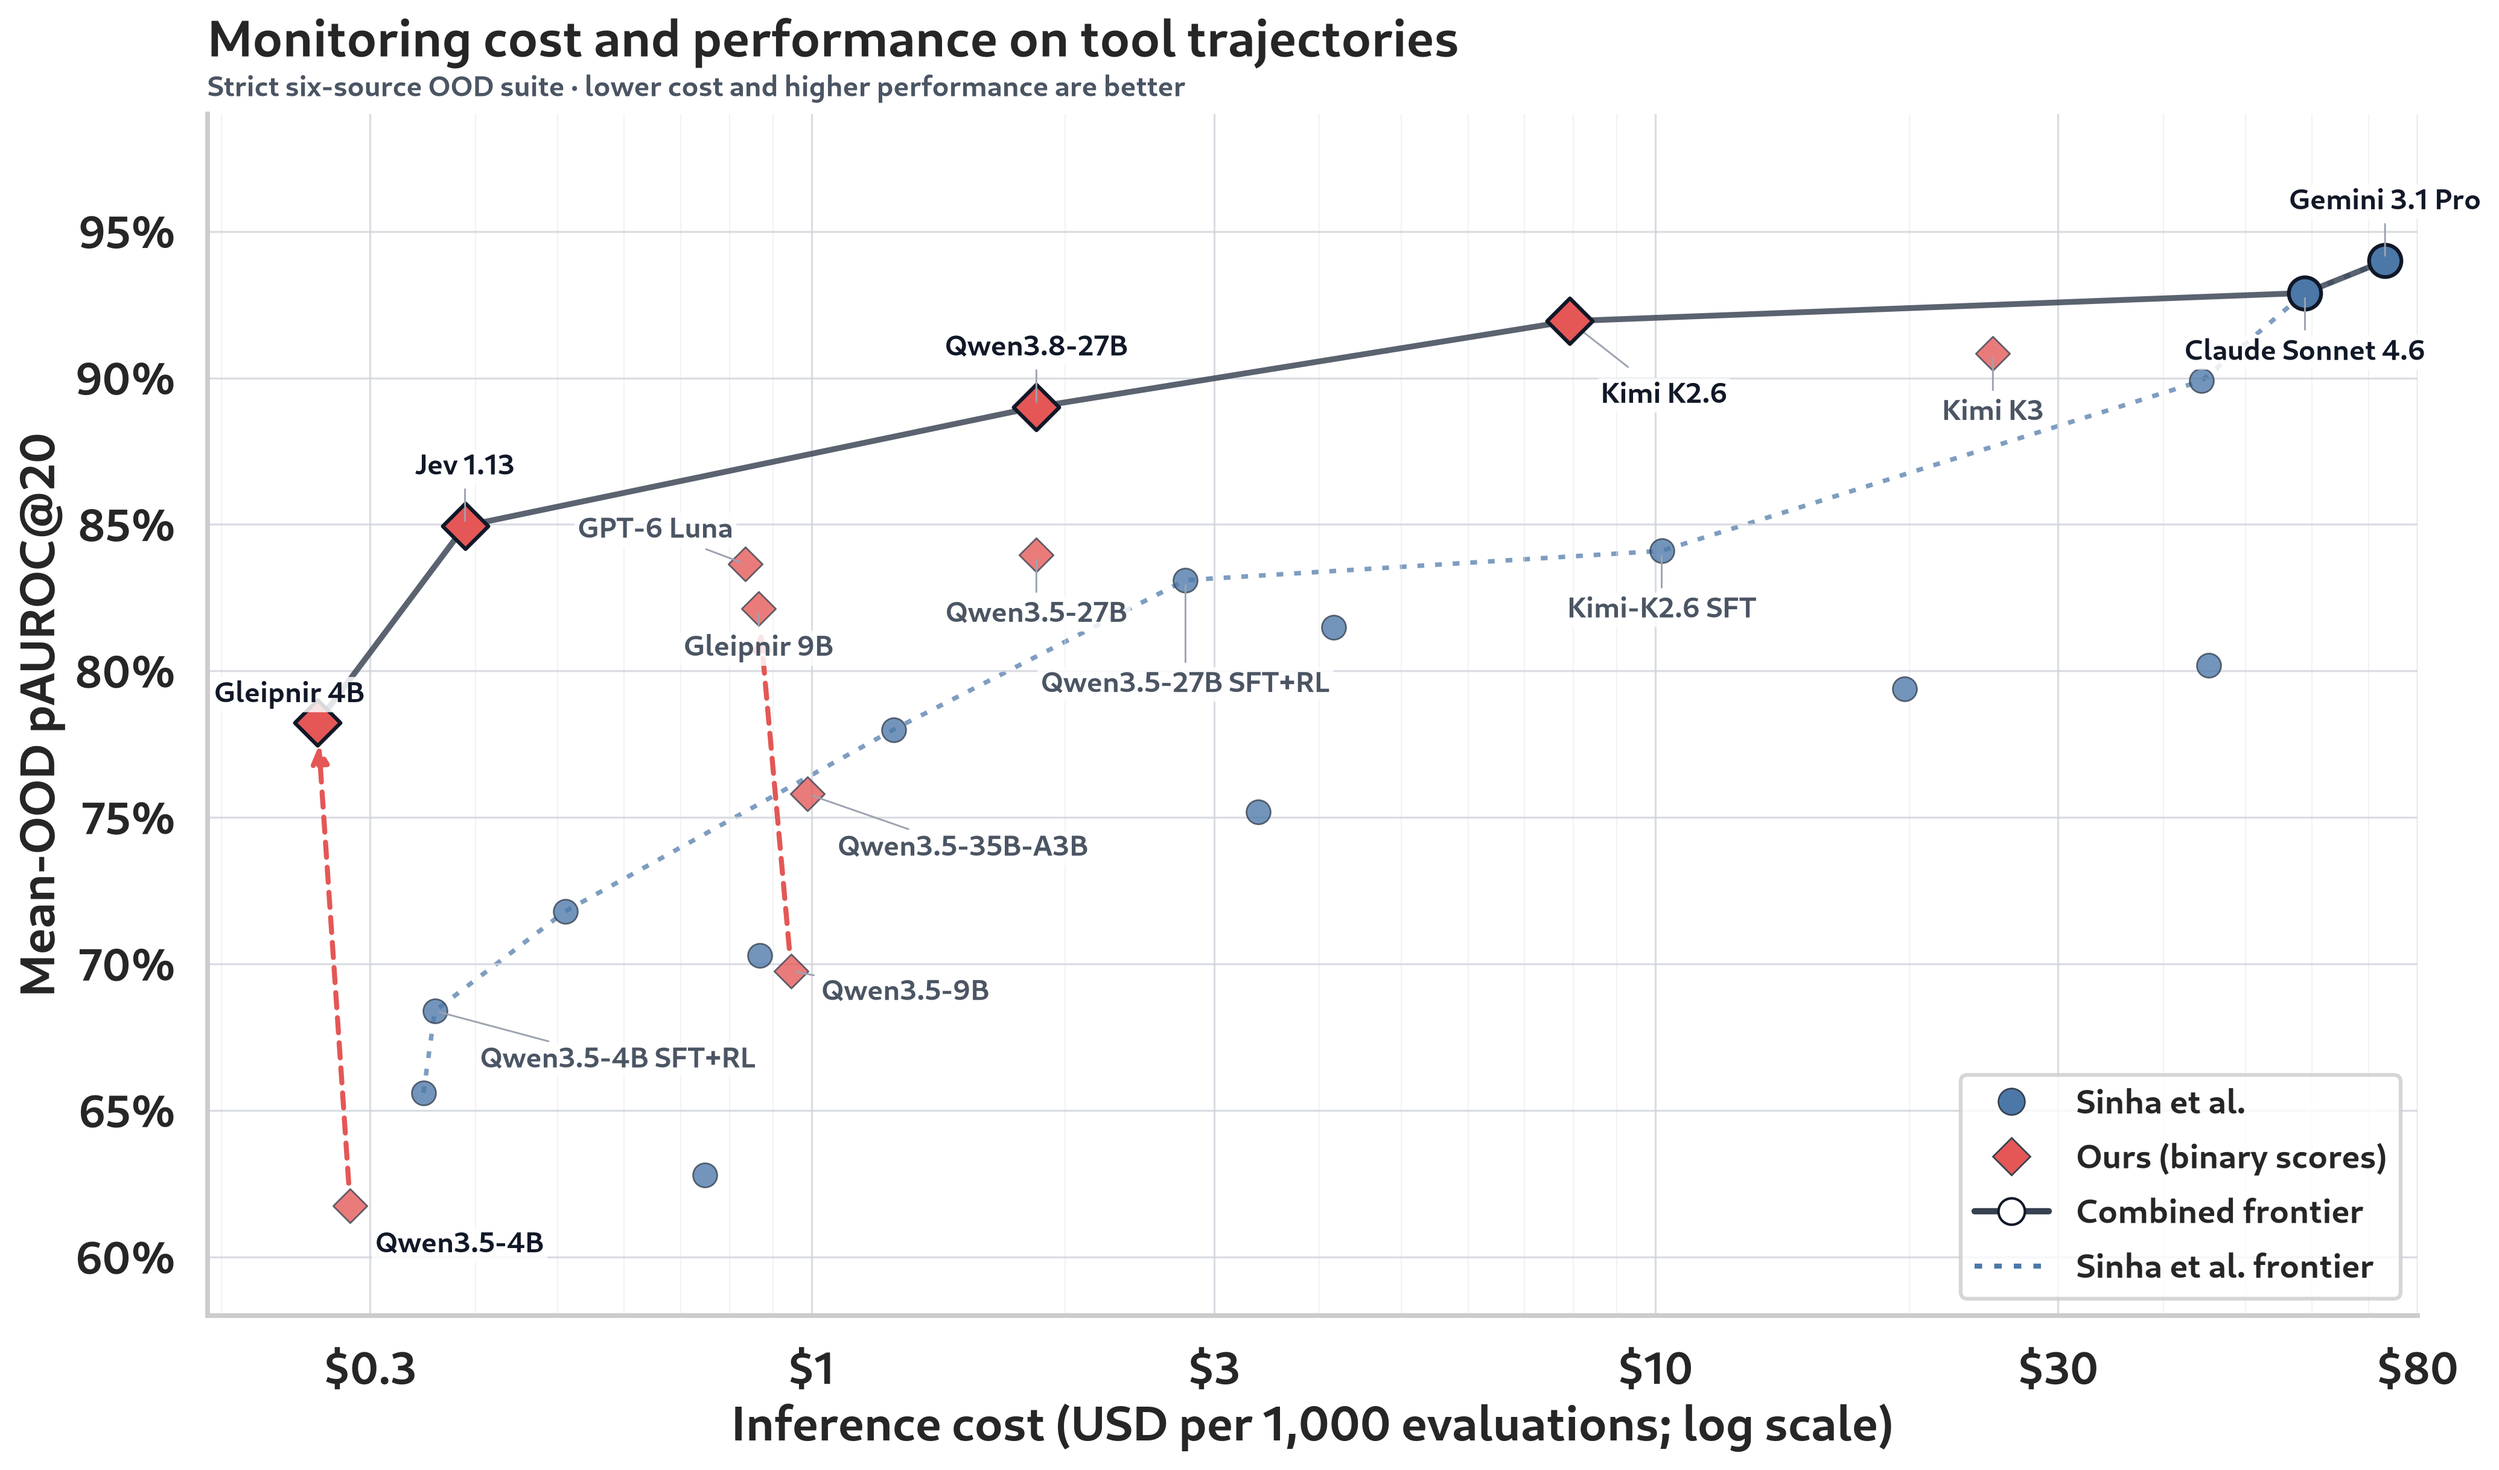
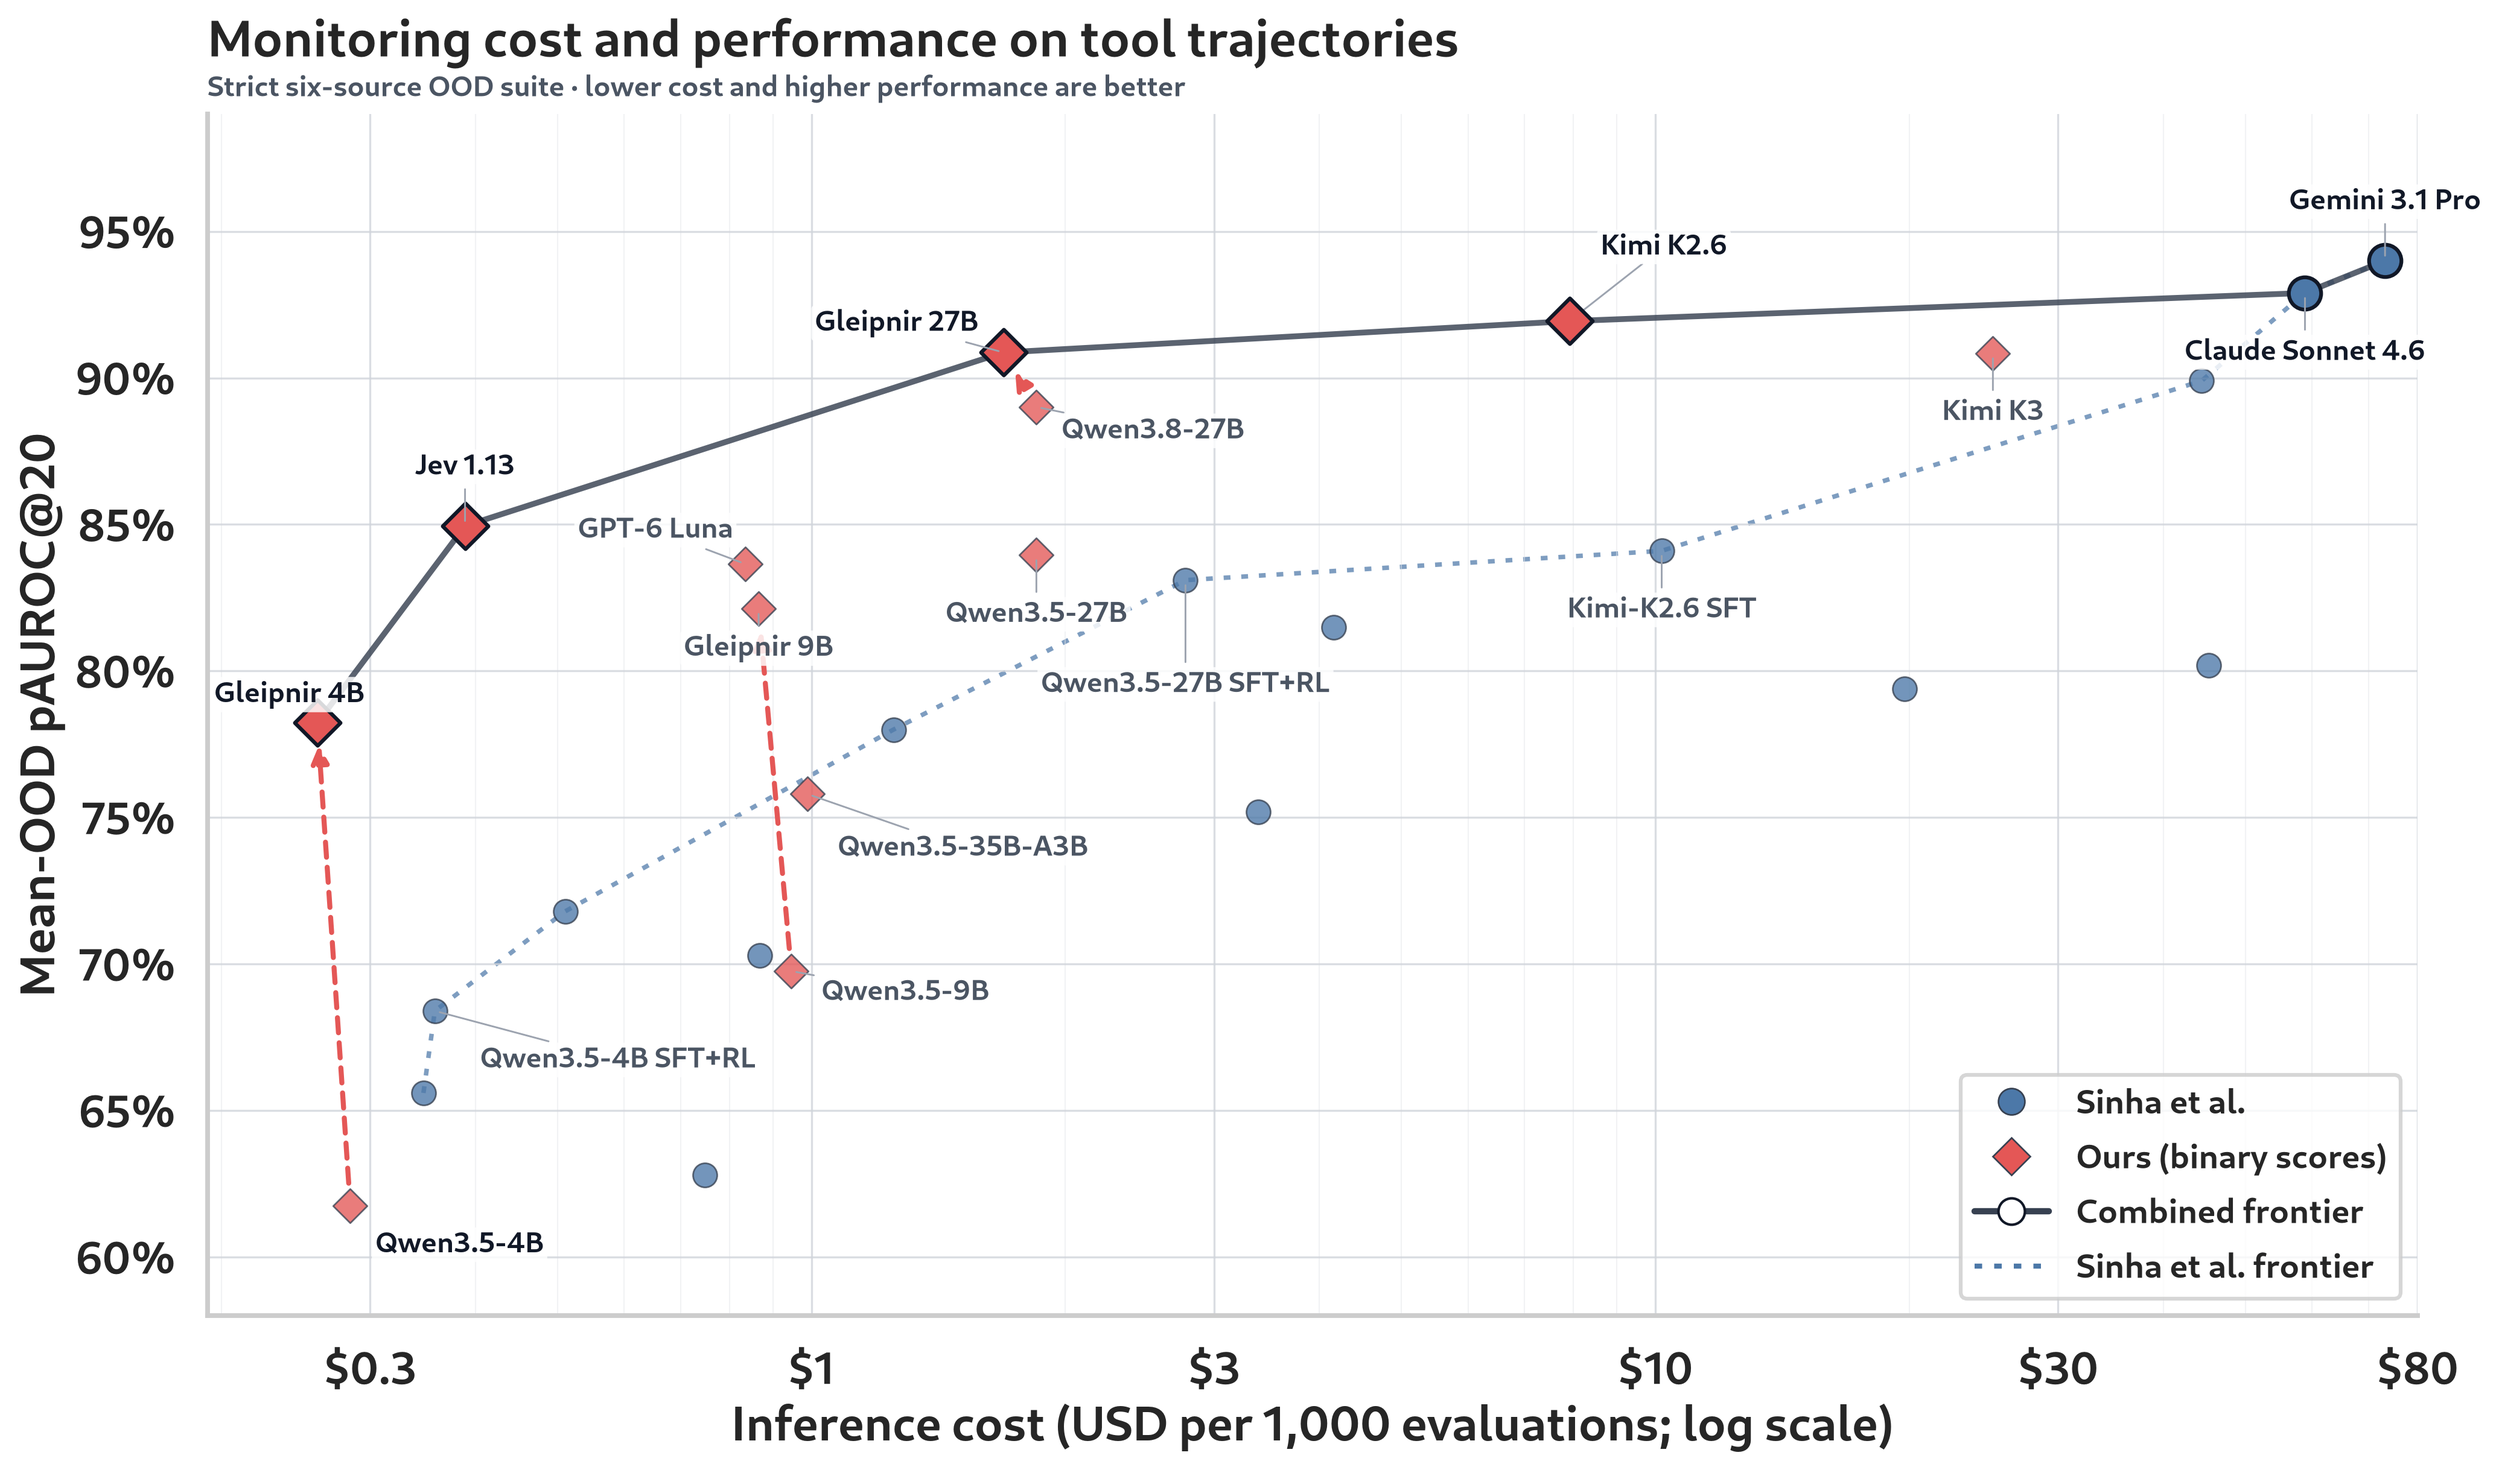
Add the trained Qwen3.8-27B to the OOD frontier (0.9087 at $1.69/1K)

diff --git a/tests/analysis/test_plotting.py b/tests/analysis/test_plotting.py
@@ -77,9 +77,14 @@ def test_manual_comparison_labels_use_requested_sides_of_points() -> None:
         "va": "top",
     }
     assert MANUAL_COMPARISON_LABELS["Qwen3.5-4B SFT+RL"]["xytext"] == (18, -14)
-    # Qwen3.8-27B sits directly above Qwen3.5-27B at the shared 27B cost.
+    # Qwen3.8-27B sits above Qwen3.5-27B at the shared 27B cost; its trained
+    # point is up and left, so the base label moves right.
     assert MANUAL_COMPARISON_LABELS["Qwen3.5-27B base"]["xytext"] == (0, -18)
-    assert MANUAL_COMPARISON_LABELS["Qwen3.8-27B base"]["xytext"] == (0, 18)
+    assert MANUAL_COMPARISON_LABELS["Qwen3.8-27B base"]["xytext"] == (10, -4)
+    assert MANUAL_COMPARISON_LABELS["Qwen3.8-27B Kimi-soft strict"]["xytext"] == (
+        -10,
+        6,
+    )
     assert MANUAL_COMPARISON_LABELS["Qwen3.5-27B SFT+RL"] == {
         "xytext": (0, -36),
         "ha": "center",
@@ -106,6 +111,7 @@ def test_improvement_arrows_pair_each_gleipnir_method_with_its_base() -> None:
     ] == [
         ("Qwen3.5-4B base", "Qwen3.5-4B Kimi-soft mixed"),
         ("Qwen3.5-9B base", "Qwen3.5-9B Kimi-soft mixed"),
+        ("Qwen3.8-27B base", "Qwen3.8-27B Kimi-soft strict"),
     ]
     assert all(
         float(method["mean_ood_pauroc_at_20"]) > float(base["mean_ood_pauroc_at_20"])

diff --git a/scripts/plot_tool_trajectory_ood_frontier.py b/scripts/plot_tool_trajectory_ood_frontier.py
@@ -39,10 +39,12 @@ EXCLUDED_MONITORS = {
 GLEIPNIR_METHODS = {
     "Qwen3.5-4B Kimi-soft mixed": "Gleipnir 4B",
     "Qwen3.5-9B Kimi-soft mixed": "Gleipnir 9B",
+    "Qwen3.8-27B Kimi-soft strict": "Gleipnir 27B",
 }
 BASE_TO_METHOD = {
     "Qwen3.5-4B base": "Qwen3.5-4B Kimi-soft mixed",
     "Qwen3.5-9B base": "Qwen3.5-9B Kimi-soft mixed",
+    "Qwen3.8-27B base": "Qwen3.8-27B Kimi-soft strict",
 }
 PAPER_COMPARISON_MONITORS = {
     "Kimi-K2.6 SFT",
@@ -83,7 +85,13 @@ MANUAL_COMPARISON_LABELS = {
     },
     "Qwen3.5-4B SFT+RL": {"xytext": (18, -14), "ha": "left", "va": "top"},
     "Qwen3.5-27B base": {"xytext": (0, -18), "ha": "center", "va": "top"},
-    "Qwen3.8-27B base": {"xytext": (0, 18), "ha": "center", "va": "bottom"},
+    # The trained 27B sits just up and left of its base at a lower cost.
+    "Qwen3.8-27B base": {"xytext": (10, -4), "ha": "left", "va": "top"},
+    "Qwen3.8-27B Kimi-soft strict": {
+        "xytext": (-10, 6),
+        "ha": "right",
+        "va": "bottom",
+    },
     "Qwen3.5-27B SFT+RL": {"xytext": (0, -36), "ha": "center", "va": "top"},
     "Claude Sonnet 4.6 prompted": {
         "xytext": (0, -18),

diff --git a/docs/research/tool_trajectory_ood_frontier.md b/docs/research/tool_trajectory_ood_frontier.md
@@ -75,8 +75,9 @@ and at least as accurate, with one strict improvement.
 | **Gleipnir** | **Qwen3.5-9B base (reasoned binary)** | **Full binary specification, visible analysis then `0\|1` logits** | **1.0054** | **0.6923** | **no** |
 | **Gleipnir** | **Qwen3.5-9B base (reasoned ordinal)** | **Full severity specification, visible analysis then 0--10 integer** | **1.0293** | **0.6656** | **no** |
 | Paper | Nemotron-120B SFT | Trained, short prompt, generated rationale + 0--10 score | 1.251 | 0.780 | no |
+| **Gleipnir** | **Qwen3.8-27B Kimi-soft strict** | **Compact student specification, immediate `0\|1` logits** | **1.6892** | **0.9087** | **yes** |
 | **Gleipnir** | **Qwen3.5-27B base** | **Full binary specification, immediate `0\|1` logits** | **1.8476** | **0.8395** | **no** |
-| **Gleipnir** | **Qwen3.8-27B base** | **Full binary specification, immediate `0\|1` logits** | **1.8476** | **0.8901** | **yes** |
+| **Gleipnir** | **Qwen3.8-27B base** | **Full binary specification, immediate `0\|1` logits** | **1.8476** | **0.8901** | **no** |
 | Paper | Qwen3.5-27B SFT+RL | Trained, short prompt, generated rationale + 0--10 score | 2.775 | 0.831 | no |
 | Paper | GPT-5.4 nano prompted | Full specification, generated rationale + 0--10 score | 3.387 | 0.752 | no |
 | Paper | Gemini 3.1 Flash-Lite prompted | Full specification, generated rationale + 0--10 score | 4.157 | 0.815 | no |
@@ -288,6 +289,24 @@ next higher-quality frontier point is Kimi K2.6 (`0.9194` at `$7.9110/1K`). It
 dominates none of the previous frontier points; at equal cost it is `0.0506`
 above Qwen3.5-27B. It is `0.0183` below Kimi K3 at about 1/14 of Kimi K3's
 cost.
+
+## Qwen3.8-27B Kimi-soft result
+
+Qwen3.8-27B trained for one epoch on the strict-filtered Kimi K3 soft targets
+(seed 0, `qwen38_27b_b200_default`, BF16 serving; campaign
+`qwen38-27b-s0-01`) reaches `0.9087` Mean-OOD pAUROC@20 and `0.9679` Mean-OOD
+AUROC under the compact student prompt
+([finding](../findings/qwen38_27b_campaign.md)). The frozen OOD workload has
+55,346,879 input tokens (mean 8,654.7113; identical under the 27B tokenizer)
+plus one output token, so at the shared 27B proxy (`$0.195/M` input,
+`$1.56/M` output) it costs `$1.6892/1K`. Training cost is excluded under the
+registry contract.
+
+It dominates the unadapted Qwen3.8-27B (`0.8901` at `$1.8476/1K`), which
+leaves the frontier, and is level with its teacher Kimi K3 (`0.9084` at
+`$25.1177/1K`, about 15 times the cost). The next higher-quality frontier
+point remains Kimi K2.6 (`0.9194` at `$7.9110/1K`). One seed; the 4B
+students' OOD seed SD is 1.8 points.
 
 ## Qwen3.5-9B immediate ordinal result
 
